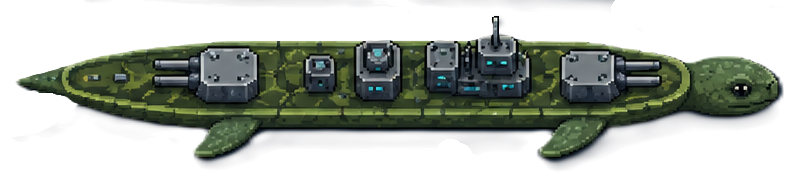
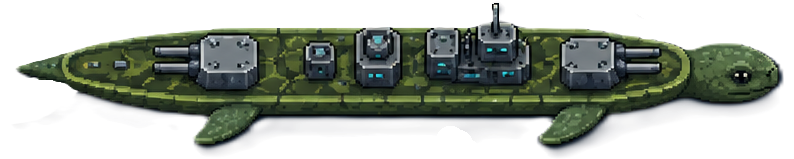
style: new galaxy skin pack.

diff --git a/src/components/ships/shipImages.js b/src/components/ships/shipImages.js
@@ -10,6 +10,12 @@ import animalCruiser from "../../assets/skins/animalia/animalcruiser.png";
 import animalSubmarine from "../../assets/skins/animalia/animalsubmarine.png";
 import animalDestroyer from "../../assets/skins/animalia/animaldestroyer.png";
 
+import galaxyCarrier from "../../assets/skins/galaxy/galaxycarrier.png";
+import galaxyBattleship from "../../assets/skins/galaxy/galaxybattleship.png";
+import galaxyCruiser from "../../assets/skins/galaxy/galaxycruiser.png";
+import galaxySubmarine from "../../assets/skins/galaxy/galaxysubmarine.png";
+import galaxyDestroyer from "../../assets/skins/galaxy/galaxydestroyer.png";
+
 export const DEFAULT_IMAGES = {
   CARRIER: carrier,
   BATTLESHIP: battleship,
@@ -25,6 +31,13 @@ export const SKIN_REGISTRY = {
     CRUISER: animalCruiser,
     SUBMARINE: animalSubmarine,
     DESTROYER: animalDestroyer,
+  },
+  galaxy: {
+    CARRIER: galaxyCarrier,
+    BATTLESHIP: galaxyBattleship,
+    CRUISER: galaxyCruiser,
+    SUBMARINE: galaxySubmarine,
+    DESTROYER: galaxyDestroyer,
   },
 };
 